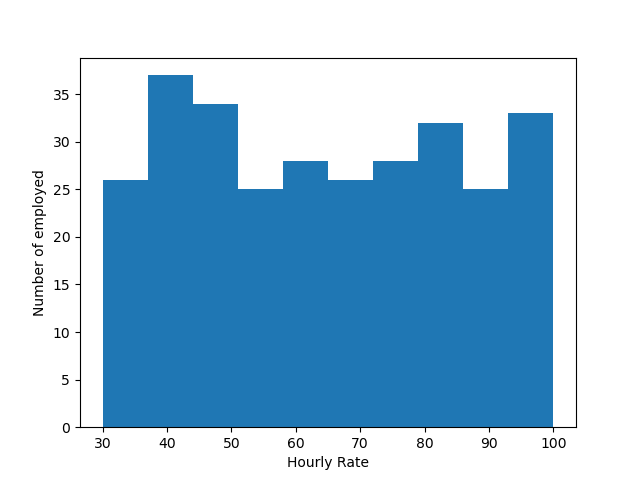
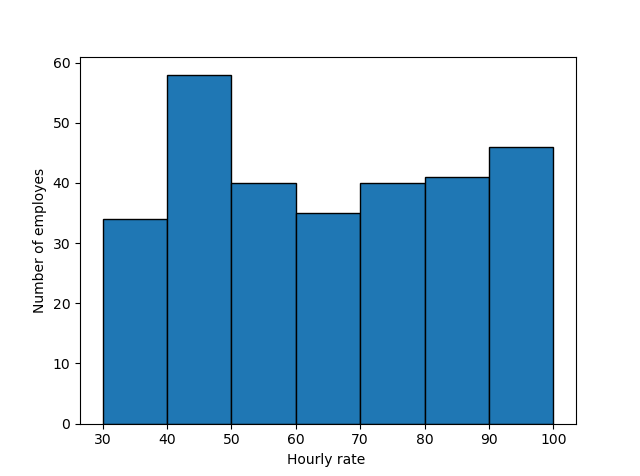
'i'

diff --git a/project.py b/project.py
@@ -1,6 +1,7 @@
 import numpy as np
 import pandas as pd
 import matplotlib.pyplot as plt
+from matplotlib.lines import Line2D
 
 import math
 
@@ -11,19 +12,23 @@ print(df.iloc[0], df.dtypes)
 # plt.hist(df.values[:,5])
 
 plt.figure()
-plt.hist(df.values[:,32],bins = 5, edgecolor='k') #edge color per gli hist separati da una linea NEGRA
-plt.xticks(np.arange(0,20.4, 3.4))
-plt.xlabel('Years With Curr Manager ')
+plt.hist(df.values[:,24],bins = np.arange(1, 80 + 1.5) - 0.5, edgecolor='k') #edge color per gli hist separati da una linea NEGRA
+plt.xticks(np.arange(60,120,10))
+plt.xlabel('Standard Hours')
 plt.ylabel('Number of employes')
 
+# handles=[Line2D([0],[0],marker='o',color='w',linestyle='', markerfacecolor='w'),Line2D([0],[0],marker='o',color='w', markerfacecolor='w'),Line2D([0],[0],marker='o',color='w', markerfacecolor='w'),Line2D([0],[0],marker='o',color='w', markerfacecolor='w')]
+# labels=['1 Low','2 Medium','3 High','4 Very high']
+# plt.legend(handles,labels, edgecolor='w', loc='upper left')
 
 
-# l = [0,3,5,6,8,10,11,12,14,16,17,18,21,22,23,24,25,26,27,28,29,30,31,32]
-#for i in range(len(l)):
-#    print(f' {l[i]} : min e max di {df.columns[l[i]]} sono {min(df.values[:,l[i]])} e {max(df.values[:,l[i]])}. Range --> {max(df.values[:,l[i]])-min(df.values[:,l[i]])}.')
 
+l = [0,3,5,6,8,10,11,12,14,16,17,18,21,22,23,24,25,26,27,28,29,30,31,32]
+for i in range(len(l)):
+   print(f' {l[i]} : min e max di {df.columns[l[i]]} sono {min(df.values[:,l[i]])} e {max(df.values[:,l[i]])}. Range --> {max(df.values[:,l[i]])-min(df.values[:,l[i]])}.')
 
-#bins = np.arange(1, 4 + 1.5) - 0.5, edgecolor='k' ###per centrare i bin
+print(len(l))
+
 # print(df.dtypes)
 # print(df.iloc[0])
 
